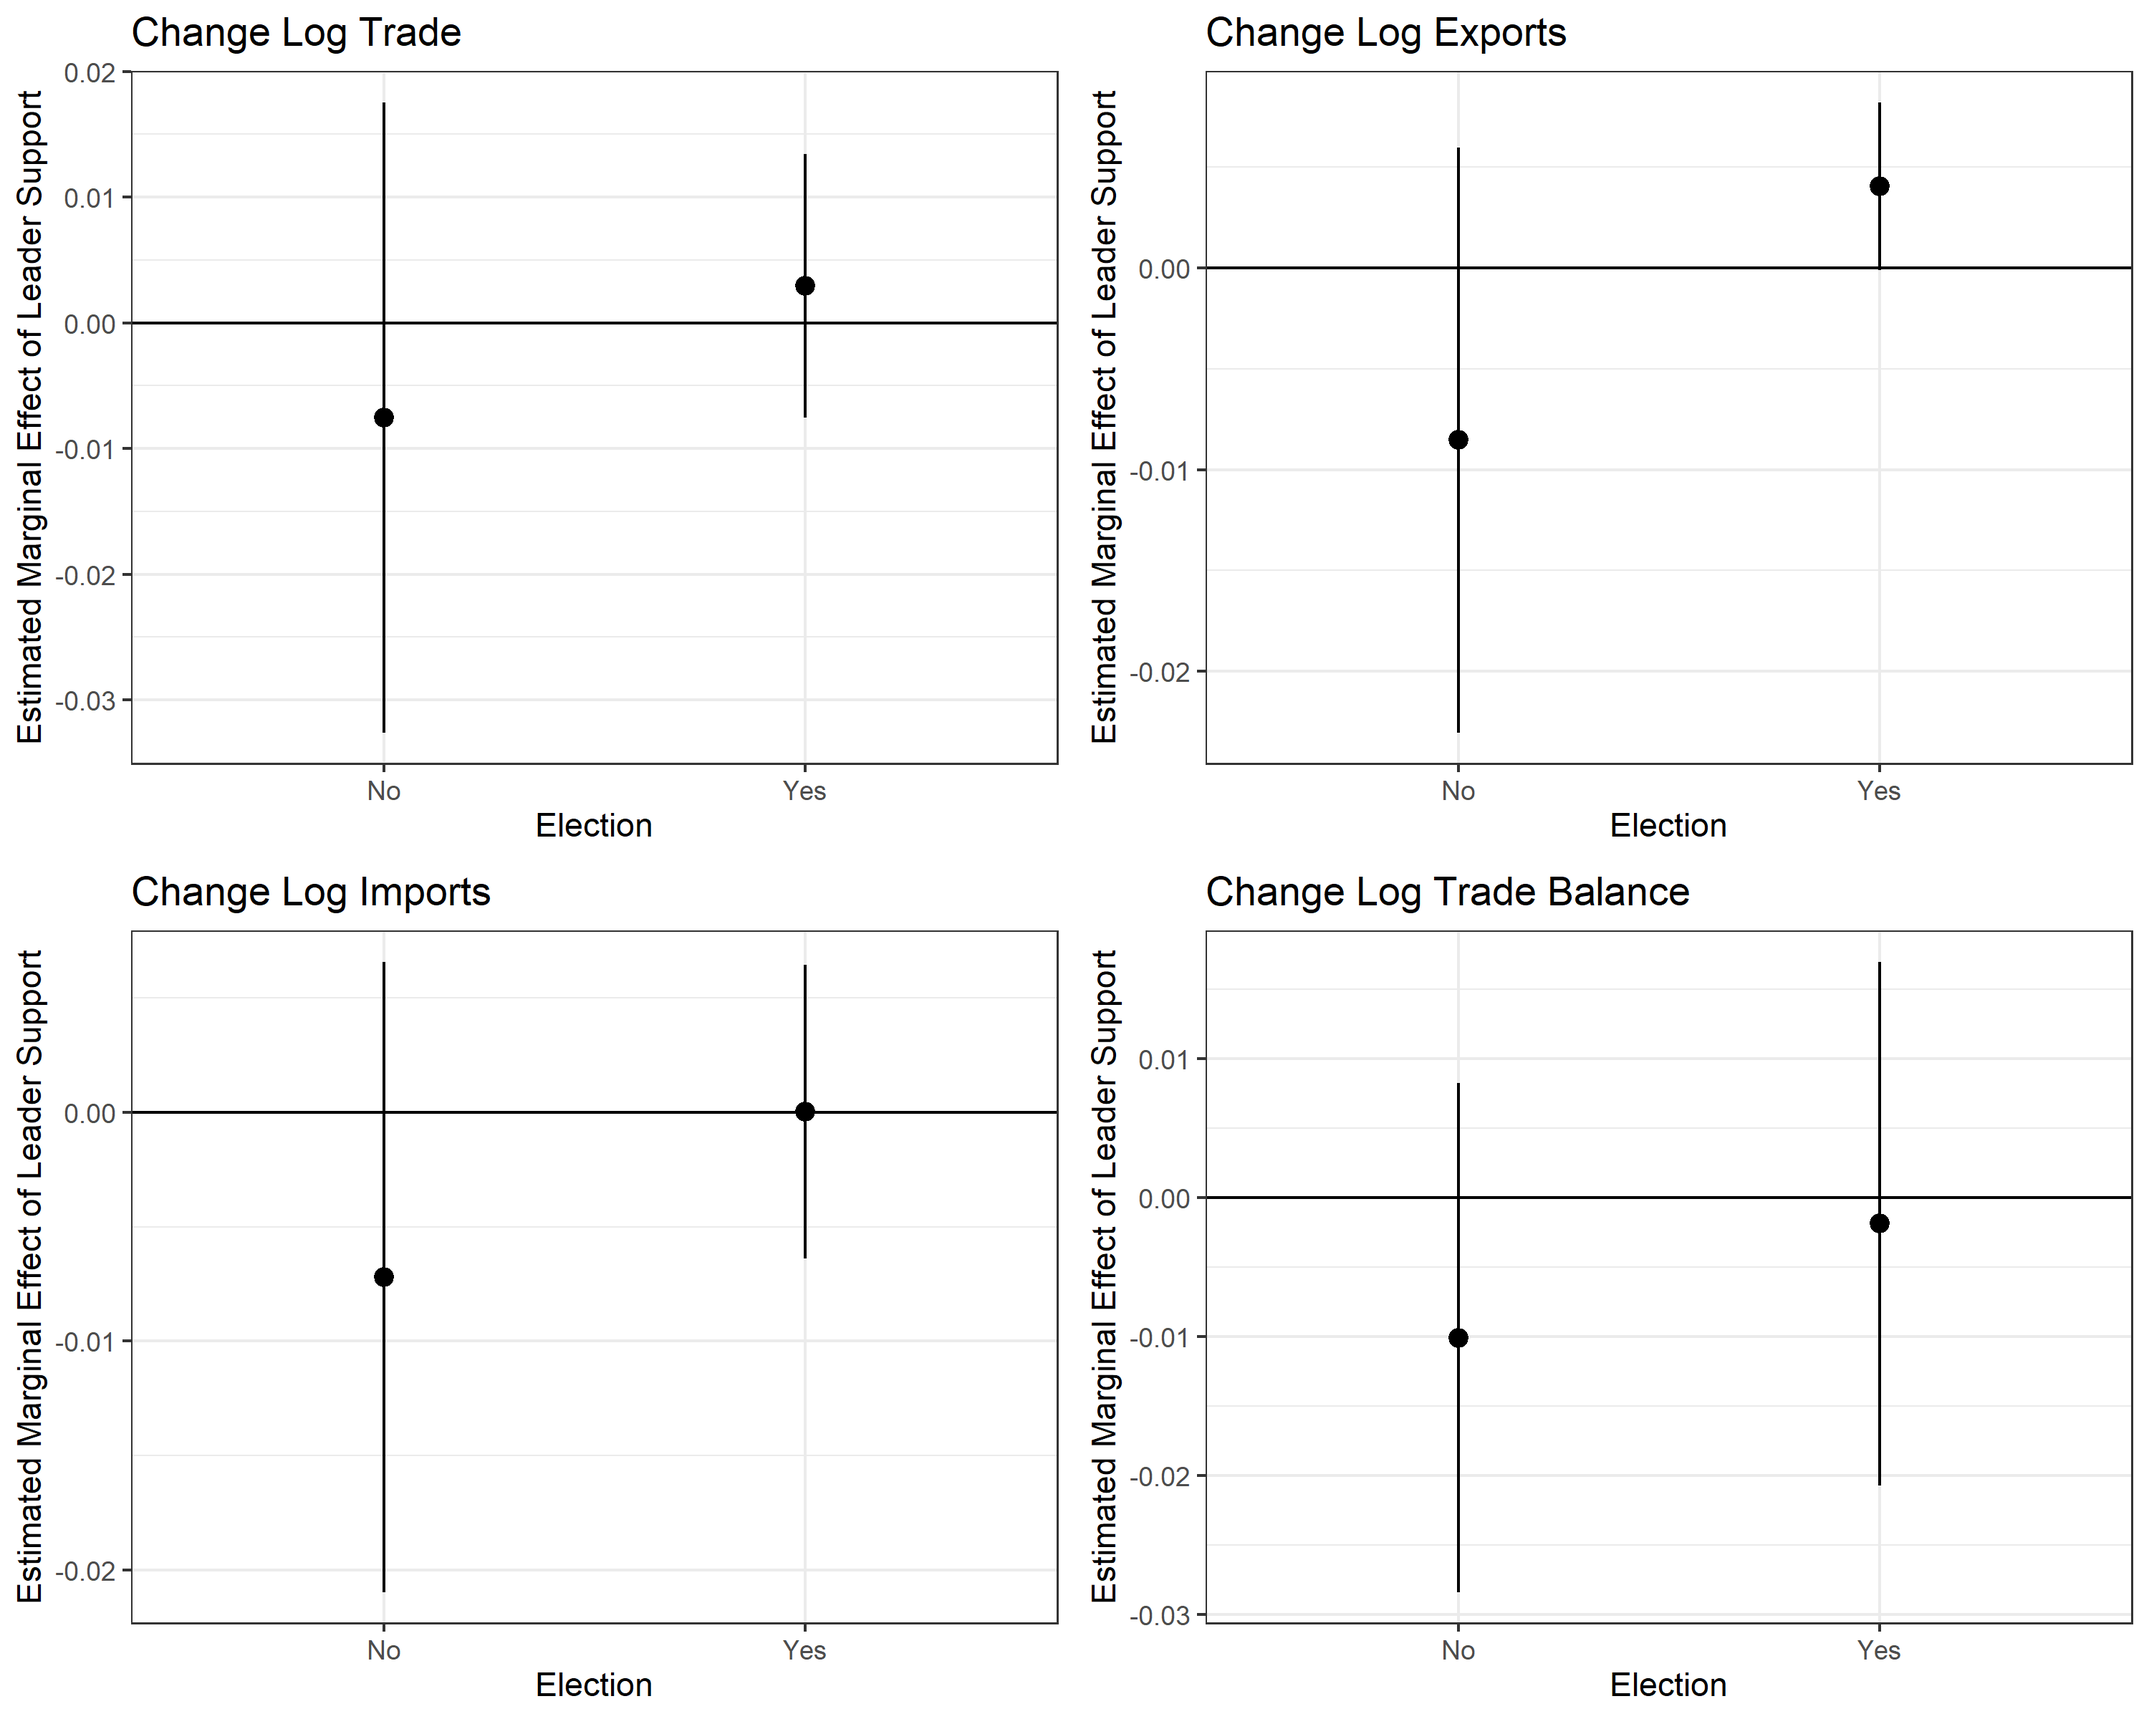
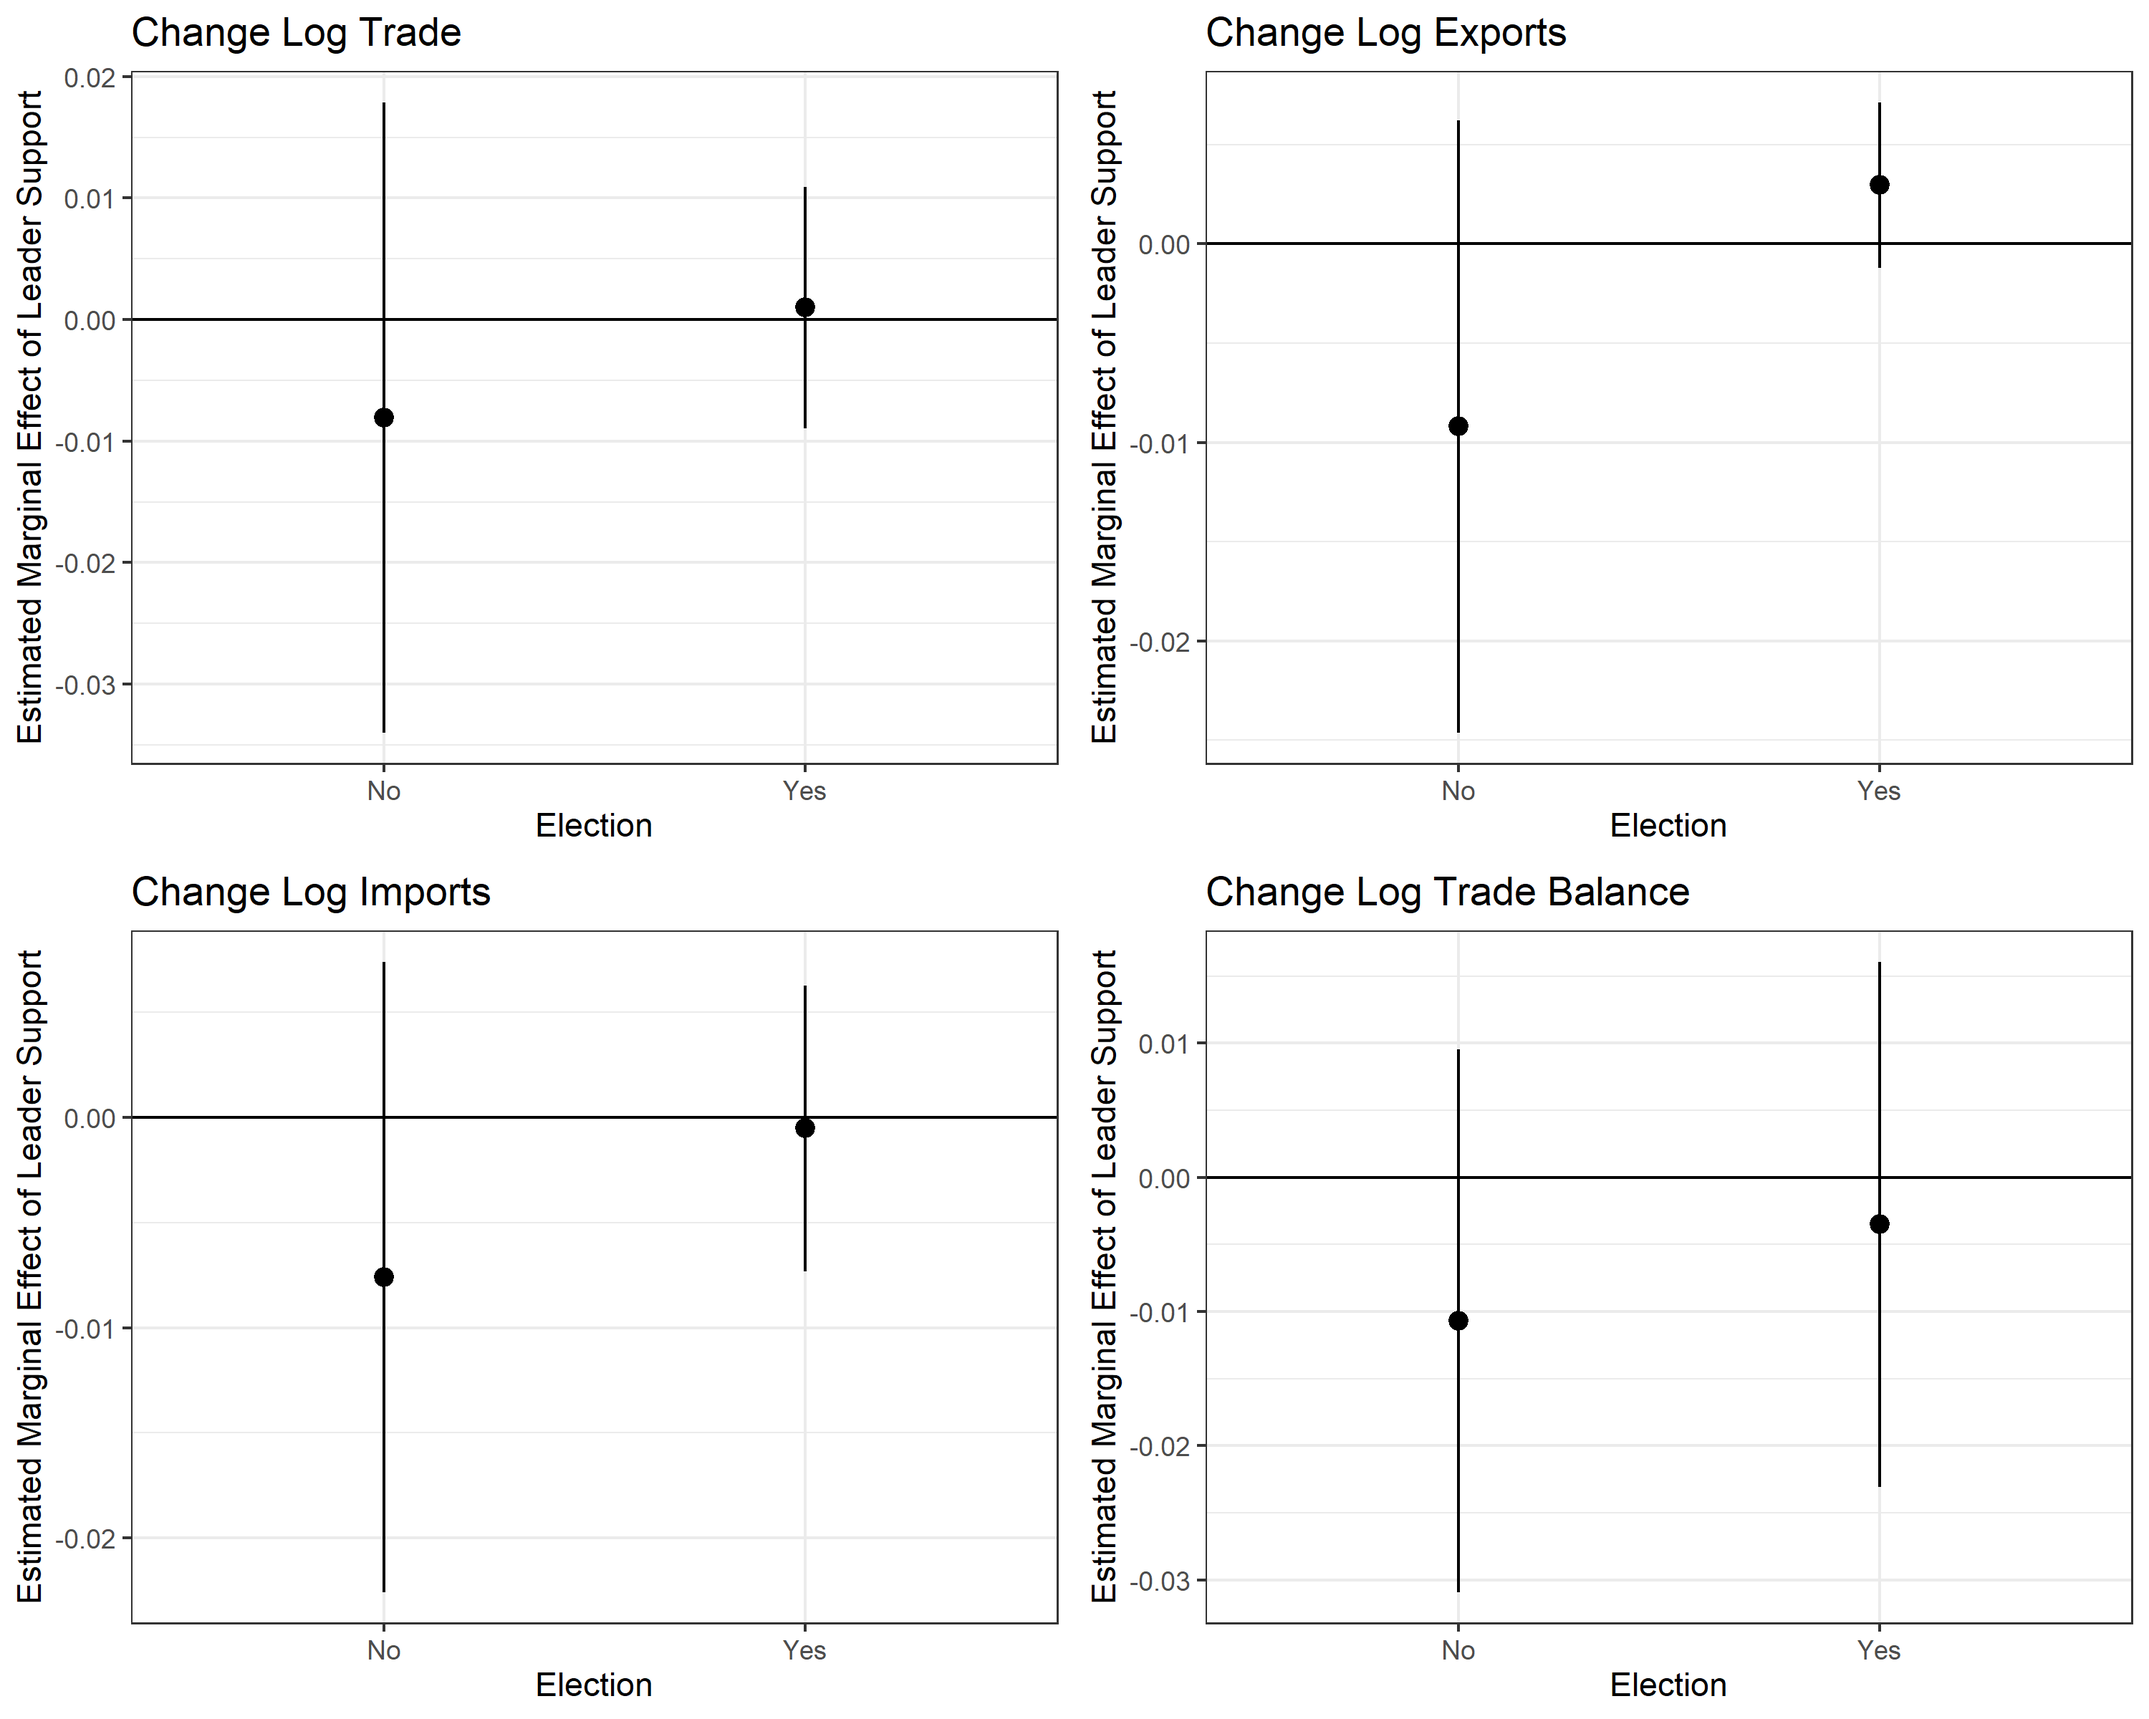
add economic control indicator

diff --git a/README.md b/README.md
@@ -1,2 +1,2 @@
 # econ-bargain-all
-Early replications for a project on economic bargaining between allies. 
+This working paper explores how security commitments shape economic relations between allies.
